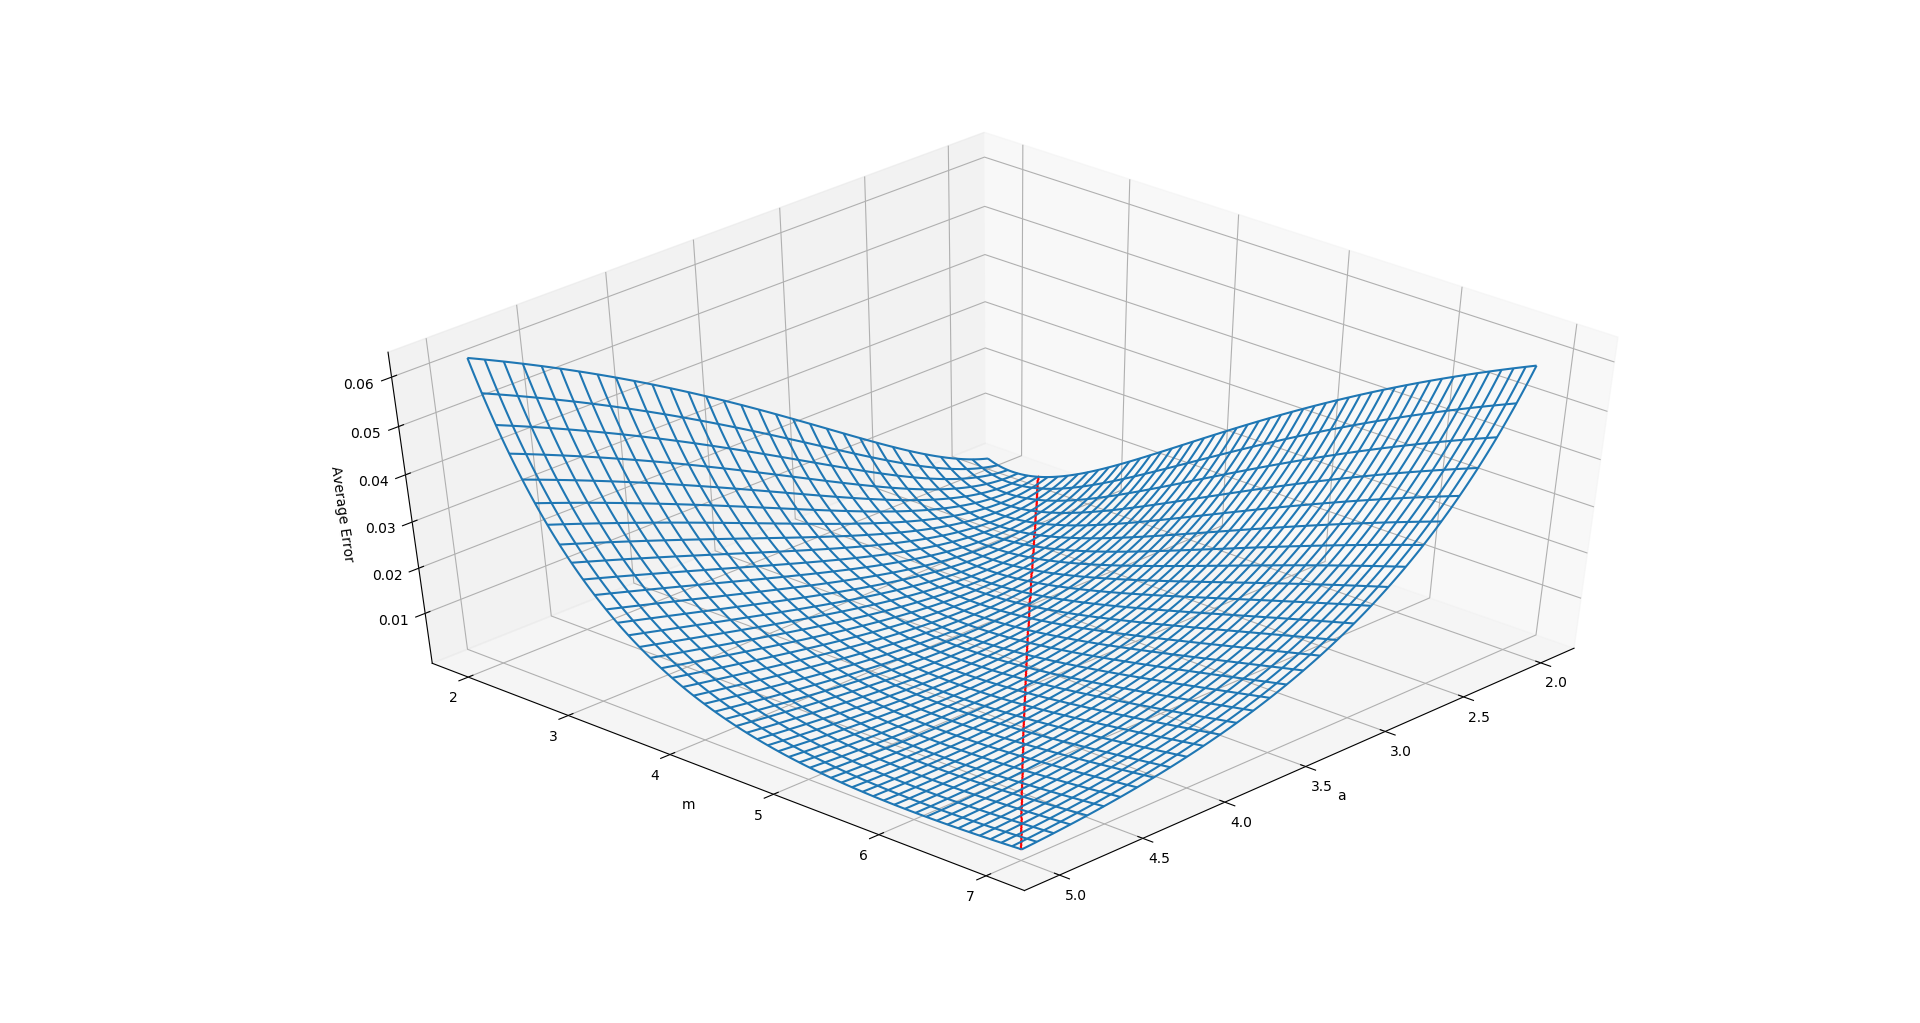
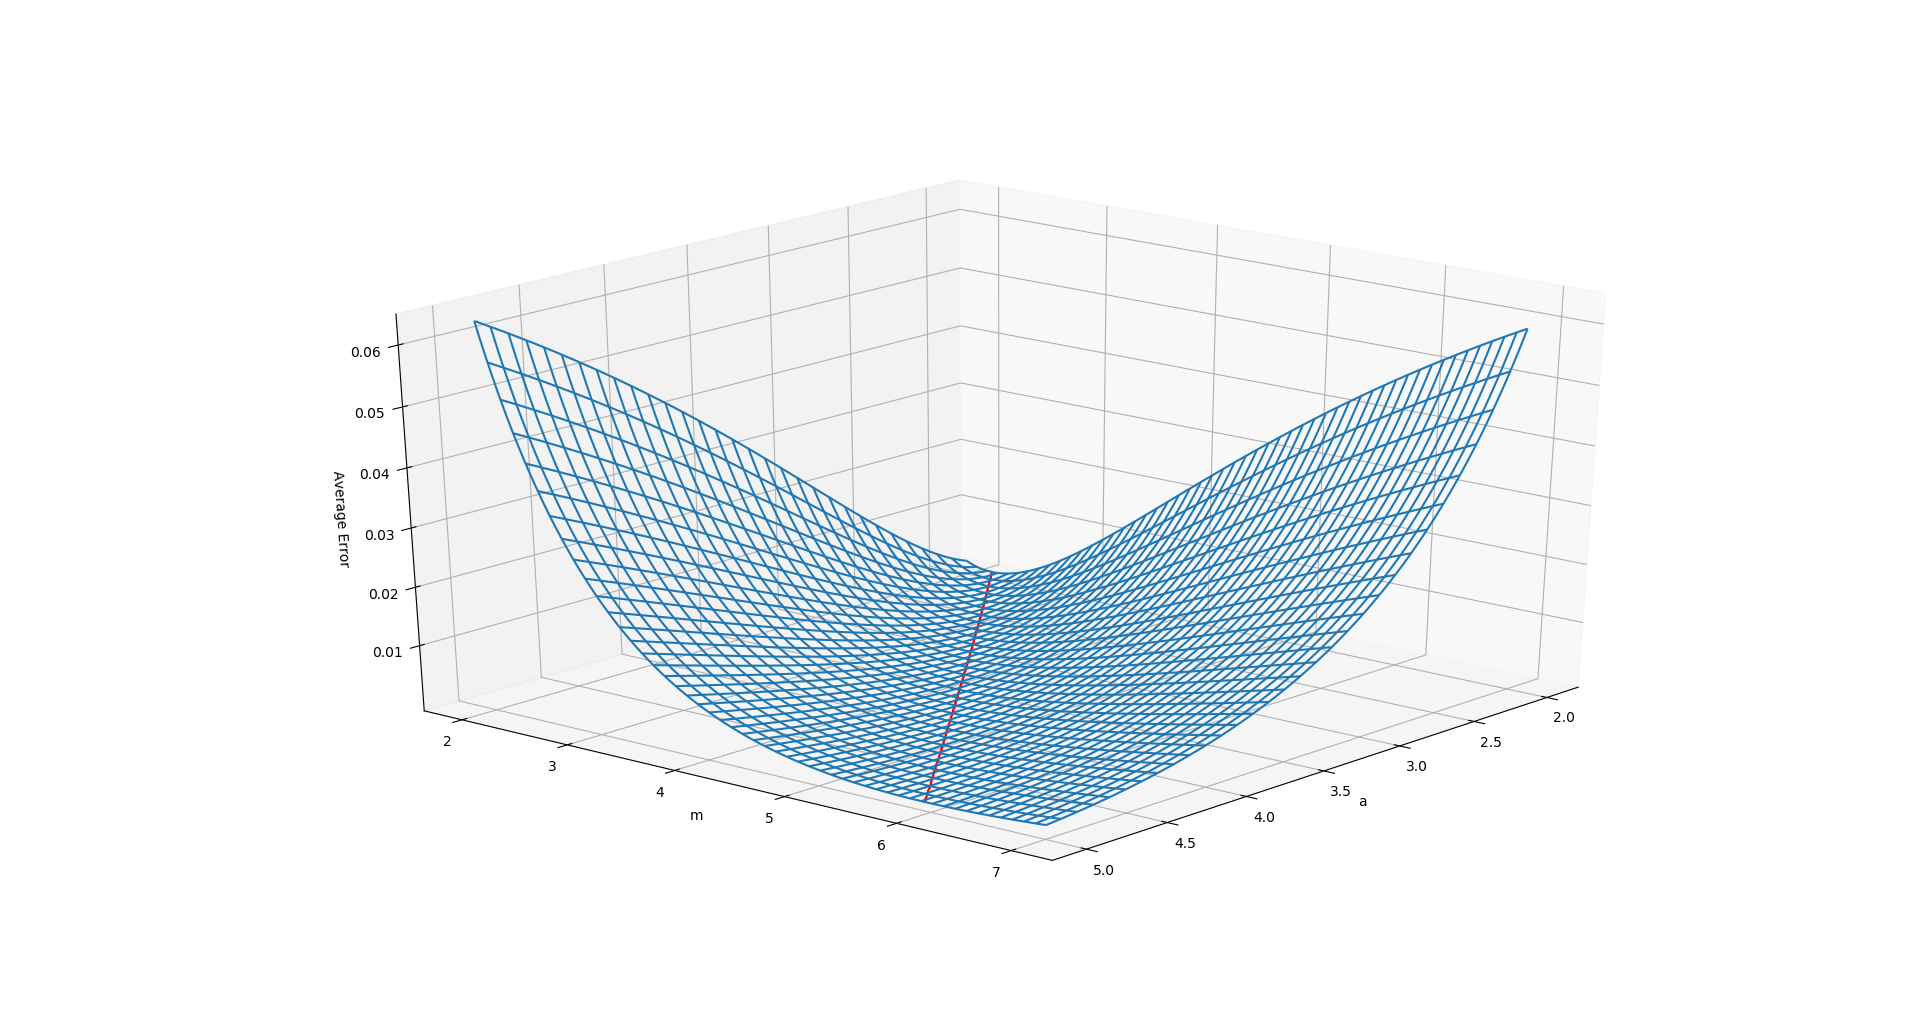
Higher Resolution

diff --git a/src/visualize_algebraic.py b/src/visualize_algebraic.py
@@ -21,7 +21,7 @@ def main():
     m_min = 2
     m_max = 7
 
-    mesh_density = 0.03
+    mesh_density = 0.01
 
     dx = 0.1
 
@@ -82,9 +82,9 @@ def main():
 
     print("Plotting Wireframe")
     #Plot a basic wireframe.
-    #data = np.array(data)
-    #print(f"Size: {data.shape}")
-    #ax.plot_wireframe(pa, pm, data, rstride=10, cstride=10)
+    data = np.array(data)
+    print(f"Size: {data.shape}")
+    ax.plot_wireframe(pa, pm, data, rstride=10, cstride=10)
 
     print("Plotting Minima")
     # Plot Minima
@@ -105,8 +105,8 @@ def contour(pa, pm, data):
 
     #levels = [1e-5, 2e-5, 3e-5, 4e-5, 5e-5, 7e-5, 9e-5, 2e-4, 4e-4, 6e-4, 8e-4, 1e-3]
 
-    plt.pcolor(pa, pm, data, vmax=0.05, norm = LogNorm())
-    #plt.pcolor(pa, pm, data, vmax=0.01)
+    #plt.pcolor(pa, pm, data, vmax=0.05, norm = LogNorm())
+    plt.pcolor(pa, pm, data, vmax=0.01)
     #plt.contourf(pa, pm, data)
     plt.colorbar()
 
